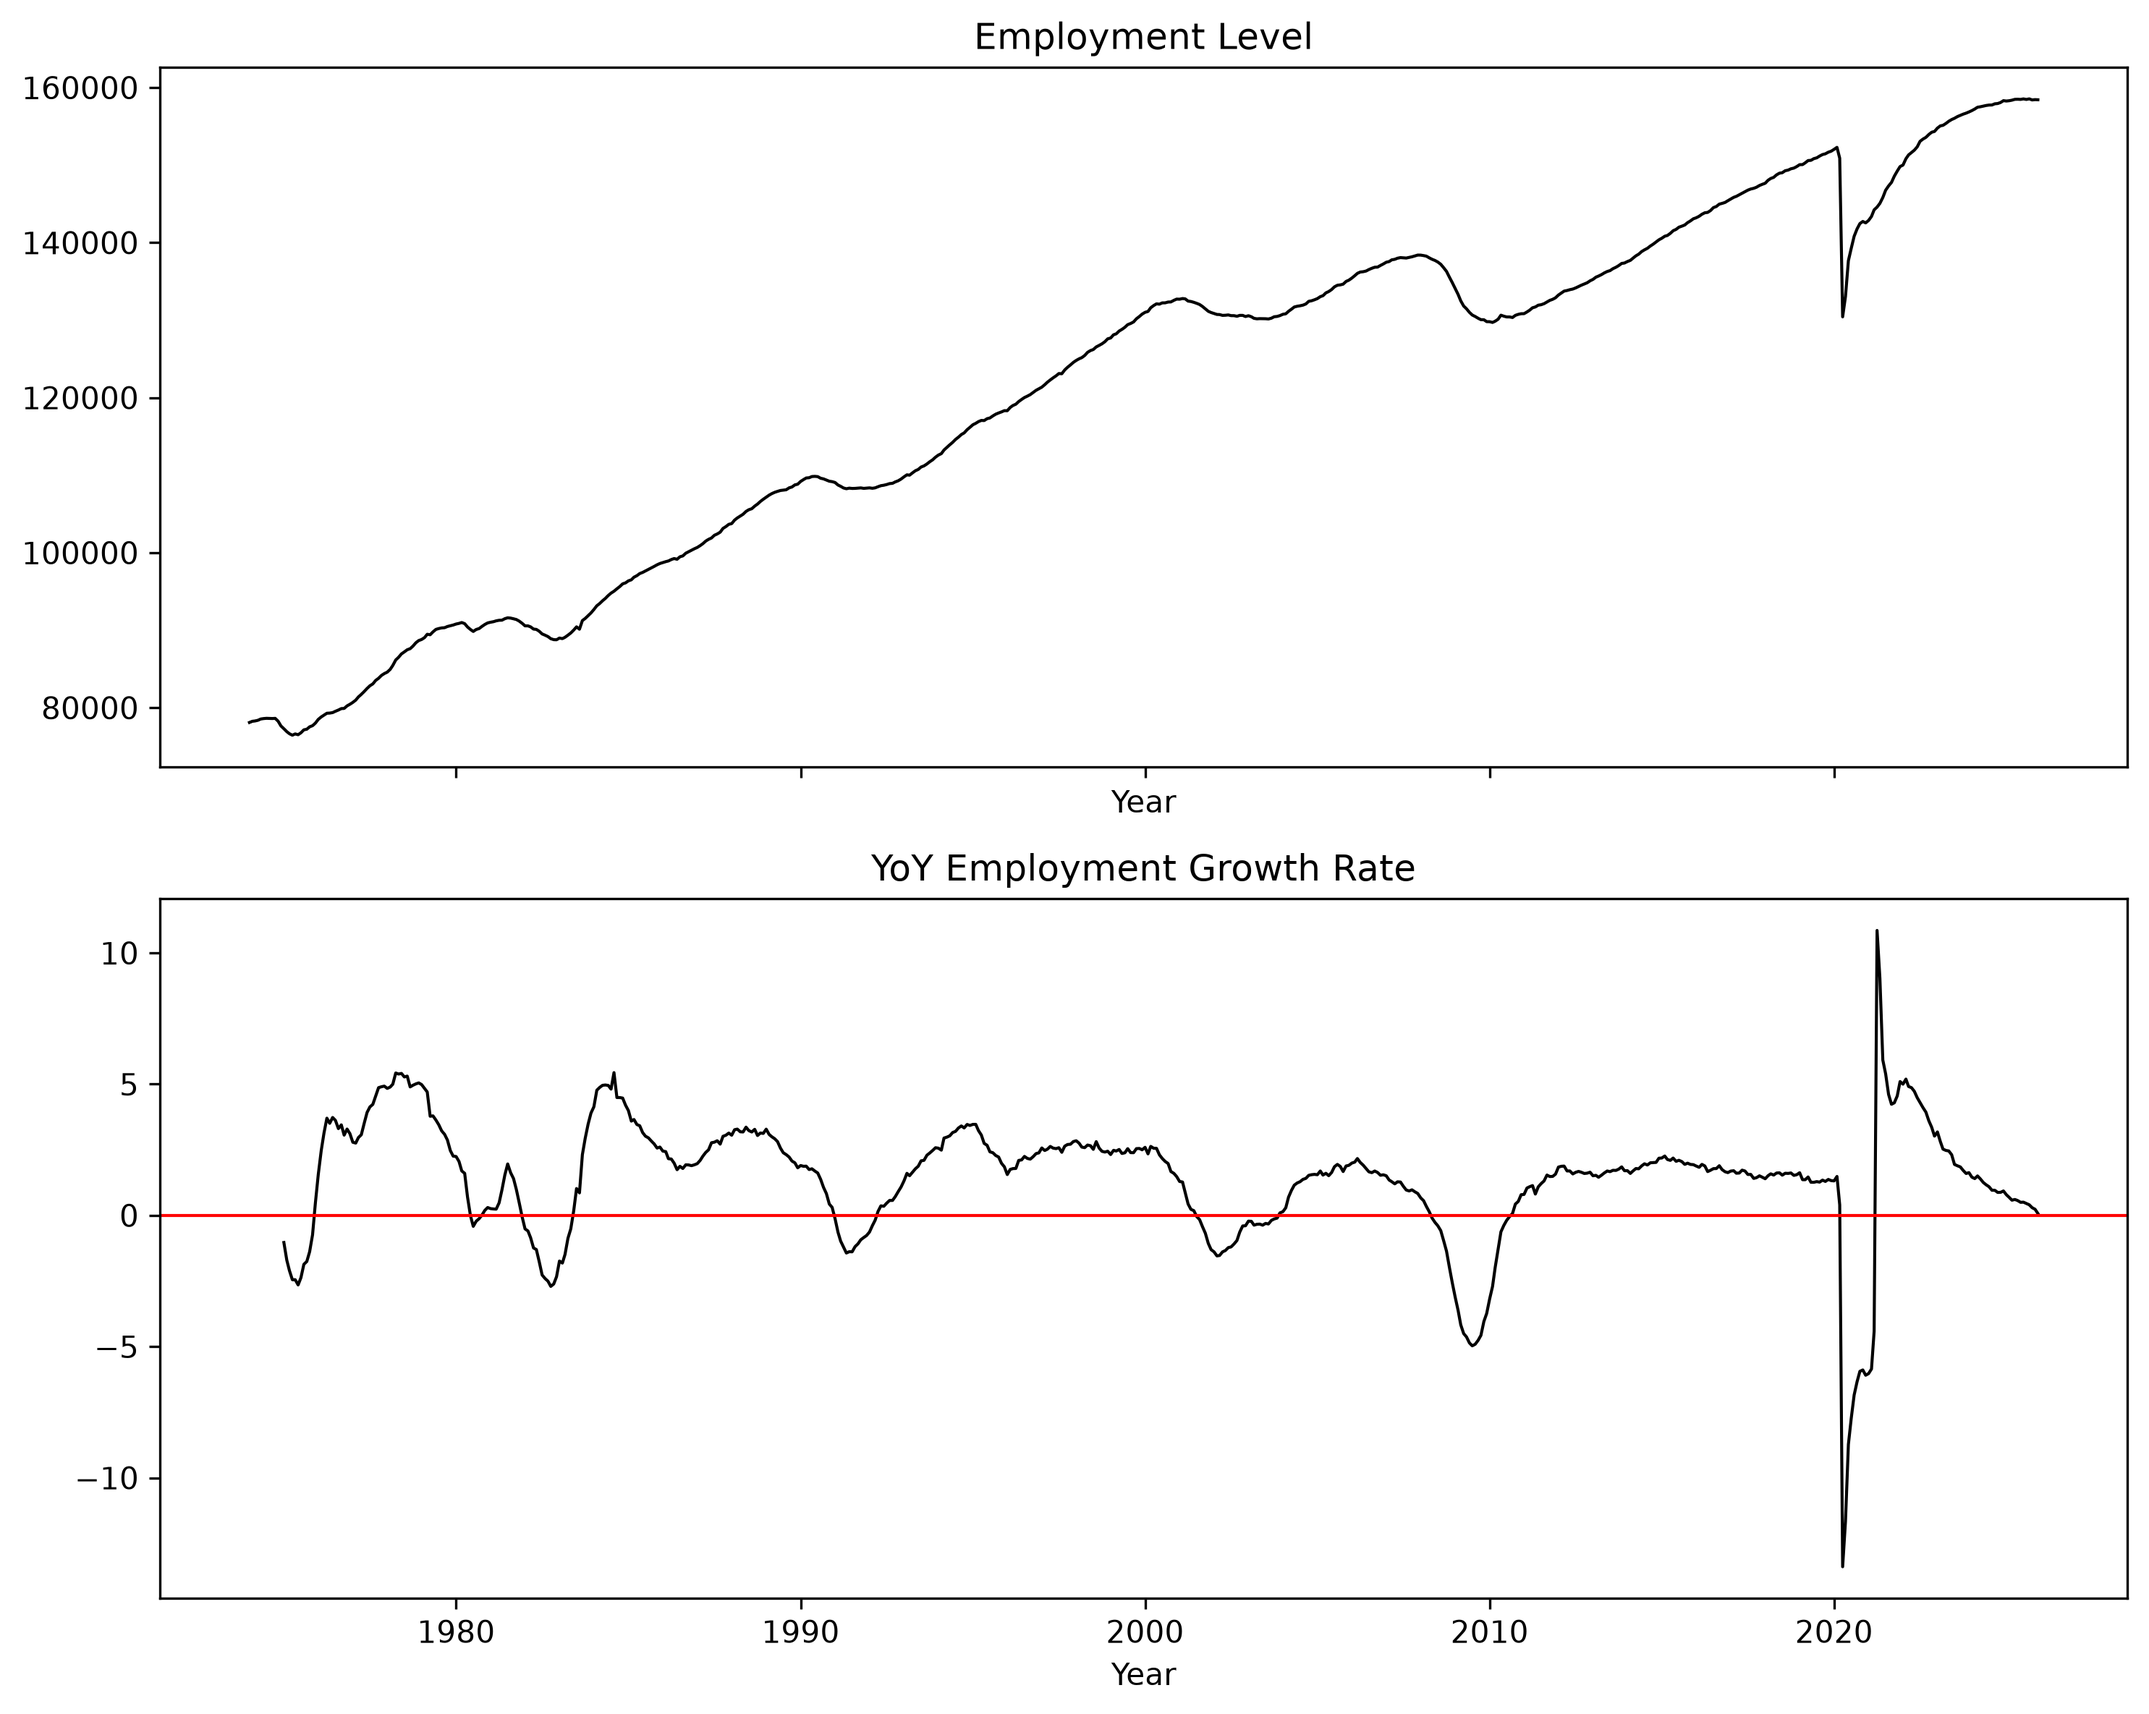
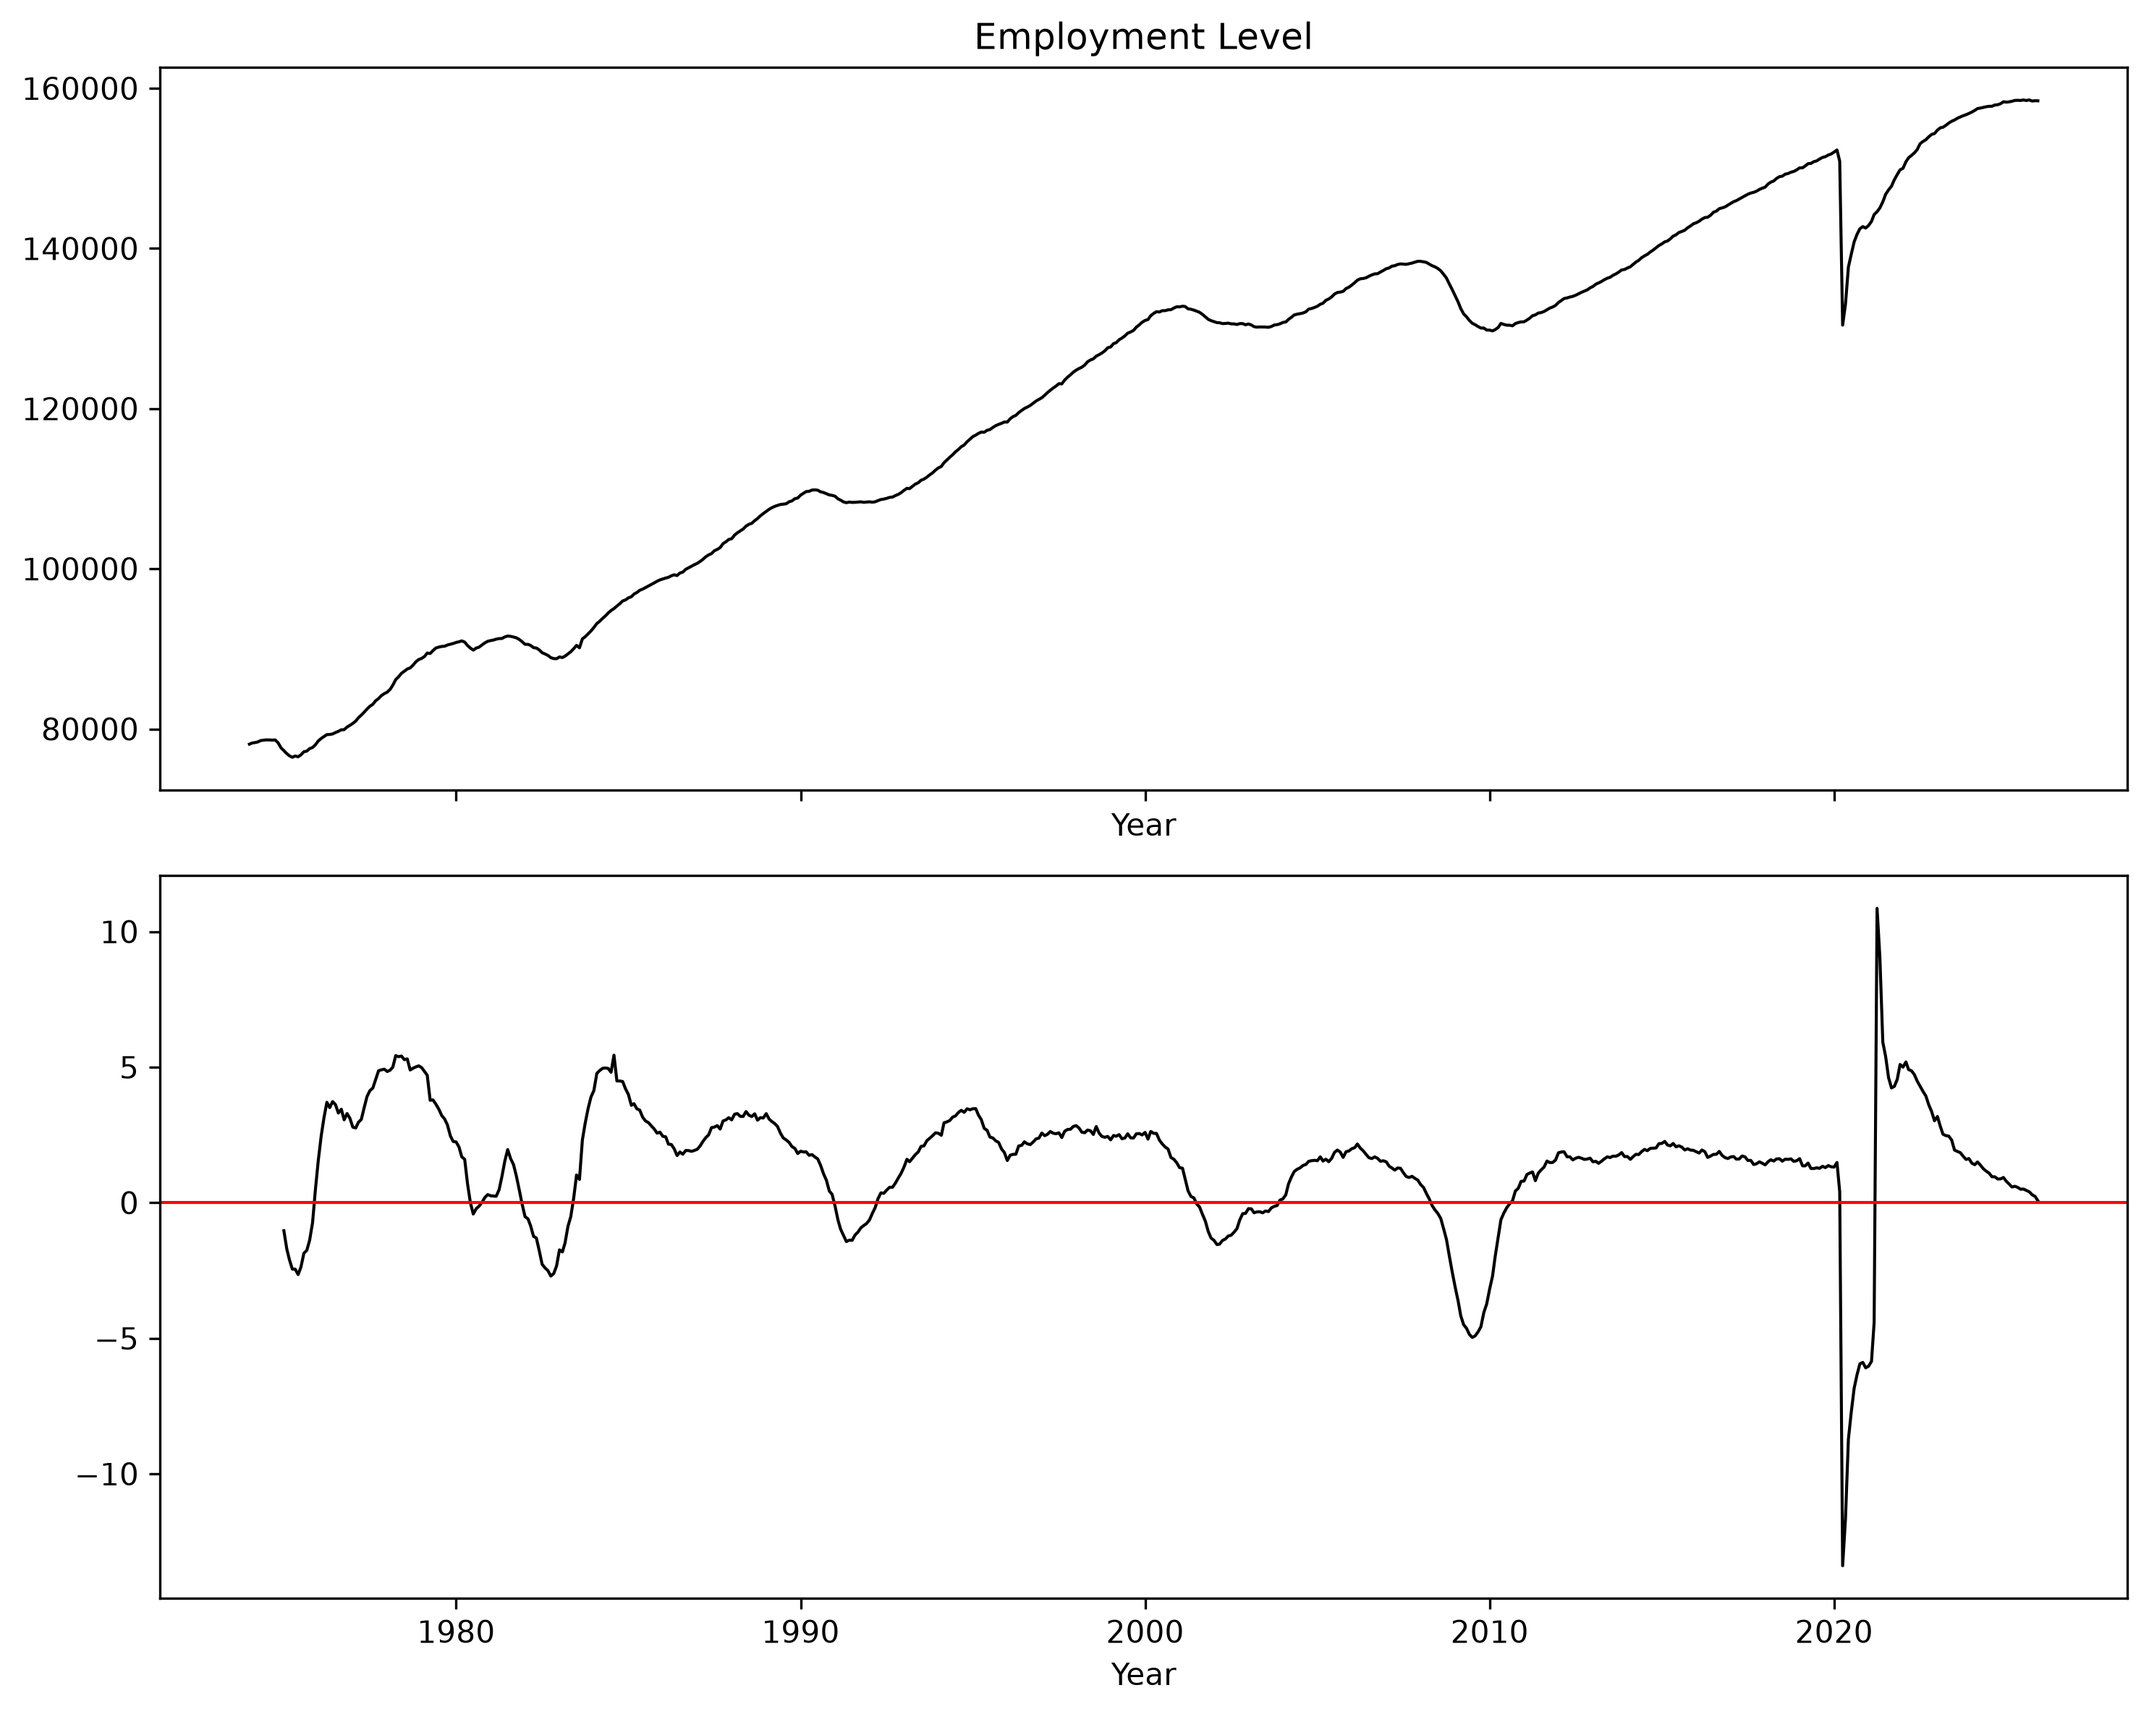
Minor changes in the graphs

diff --git a/main.py b/main.py
@@ -28,7 +28,6 @@ axes[0].set_ylabel("")
 # Year-on-year employment growth rate
 axes[1].plot(df.index, df["Growth_Rate"], color="black", linewidth=1.0)
 axes[1].axhline(y=0, color="red", linewidth=1)
-axes[1].set_title("YoY Employment Growth Rate")
 axes[1].set_xlabel("Year")
 axes[1].set_ylabel("")
 plt.tight_layout()
@@ -207,9 +206,6 @@ ax.axhline(
     linewidth=0.8)
 
 # Plot formatting
-ax.set_title(
-    "Forecast of US Employment Growth Rate",
-    fontsize=14)
 ax.set_xlabel("Years")
 ax.set_ylabel("Percent")
 ax.legend(loc="upper left")
